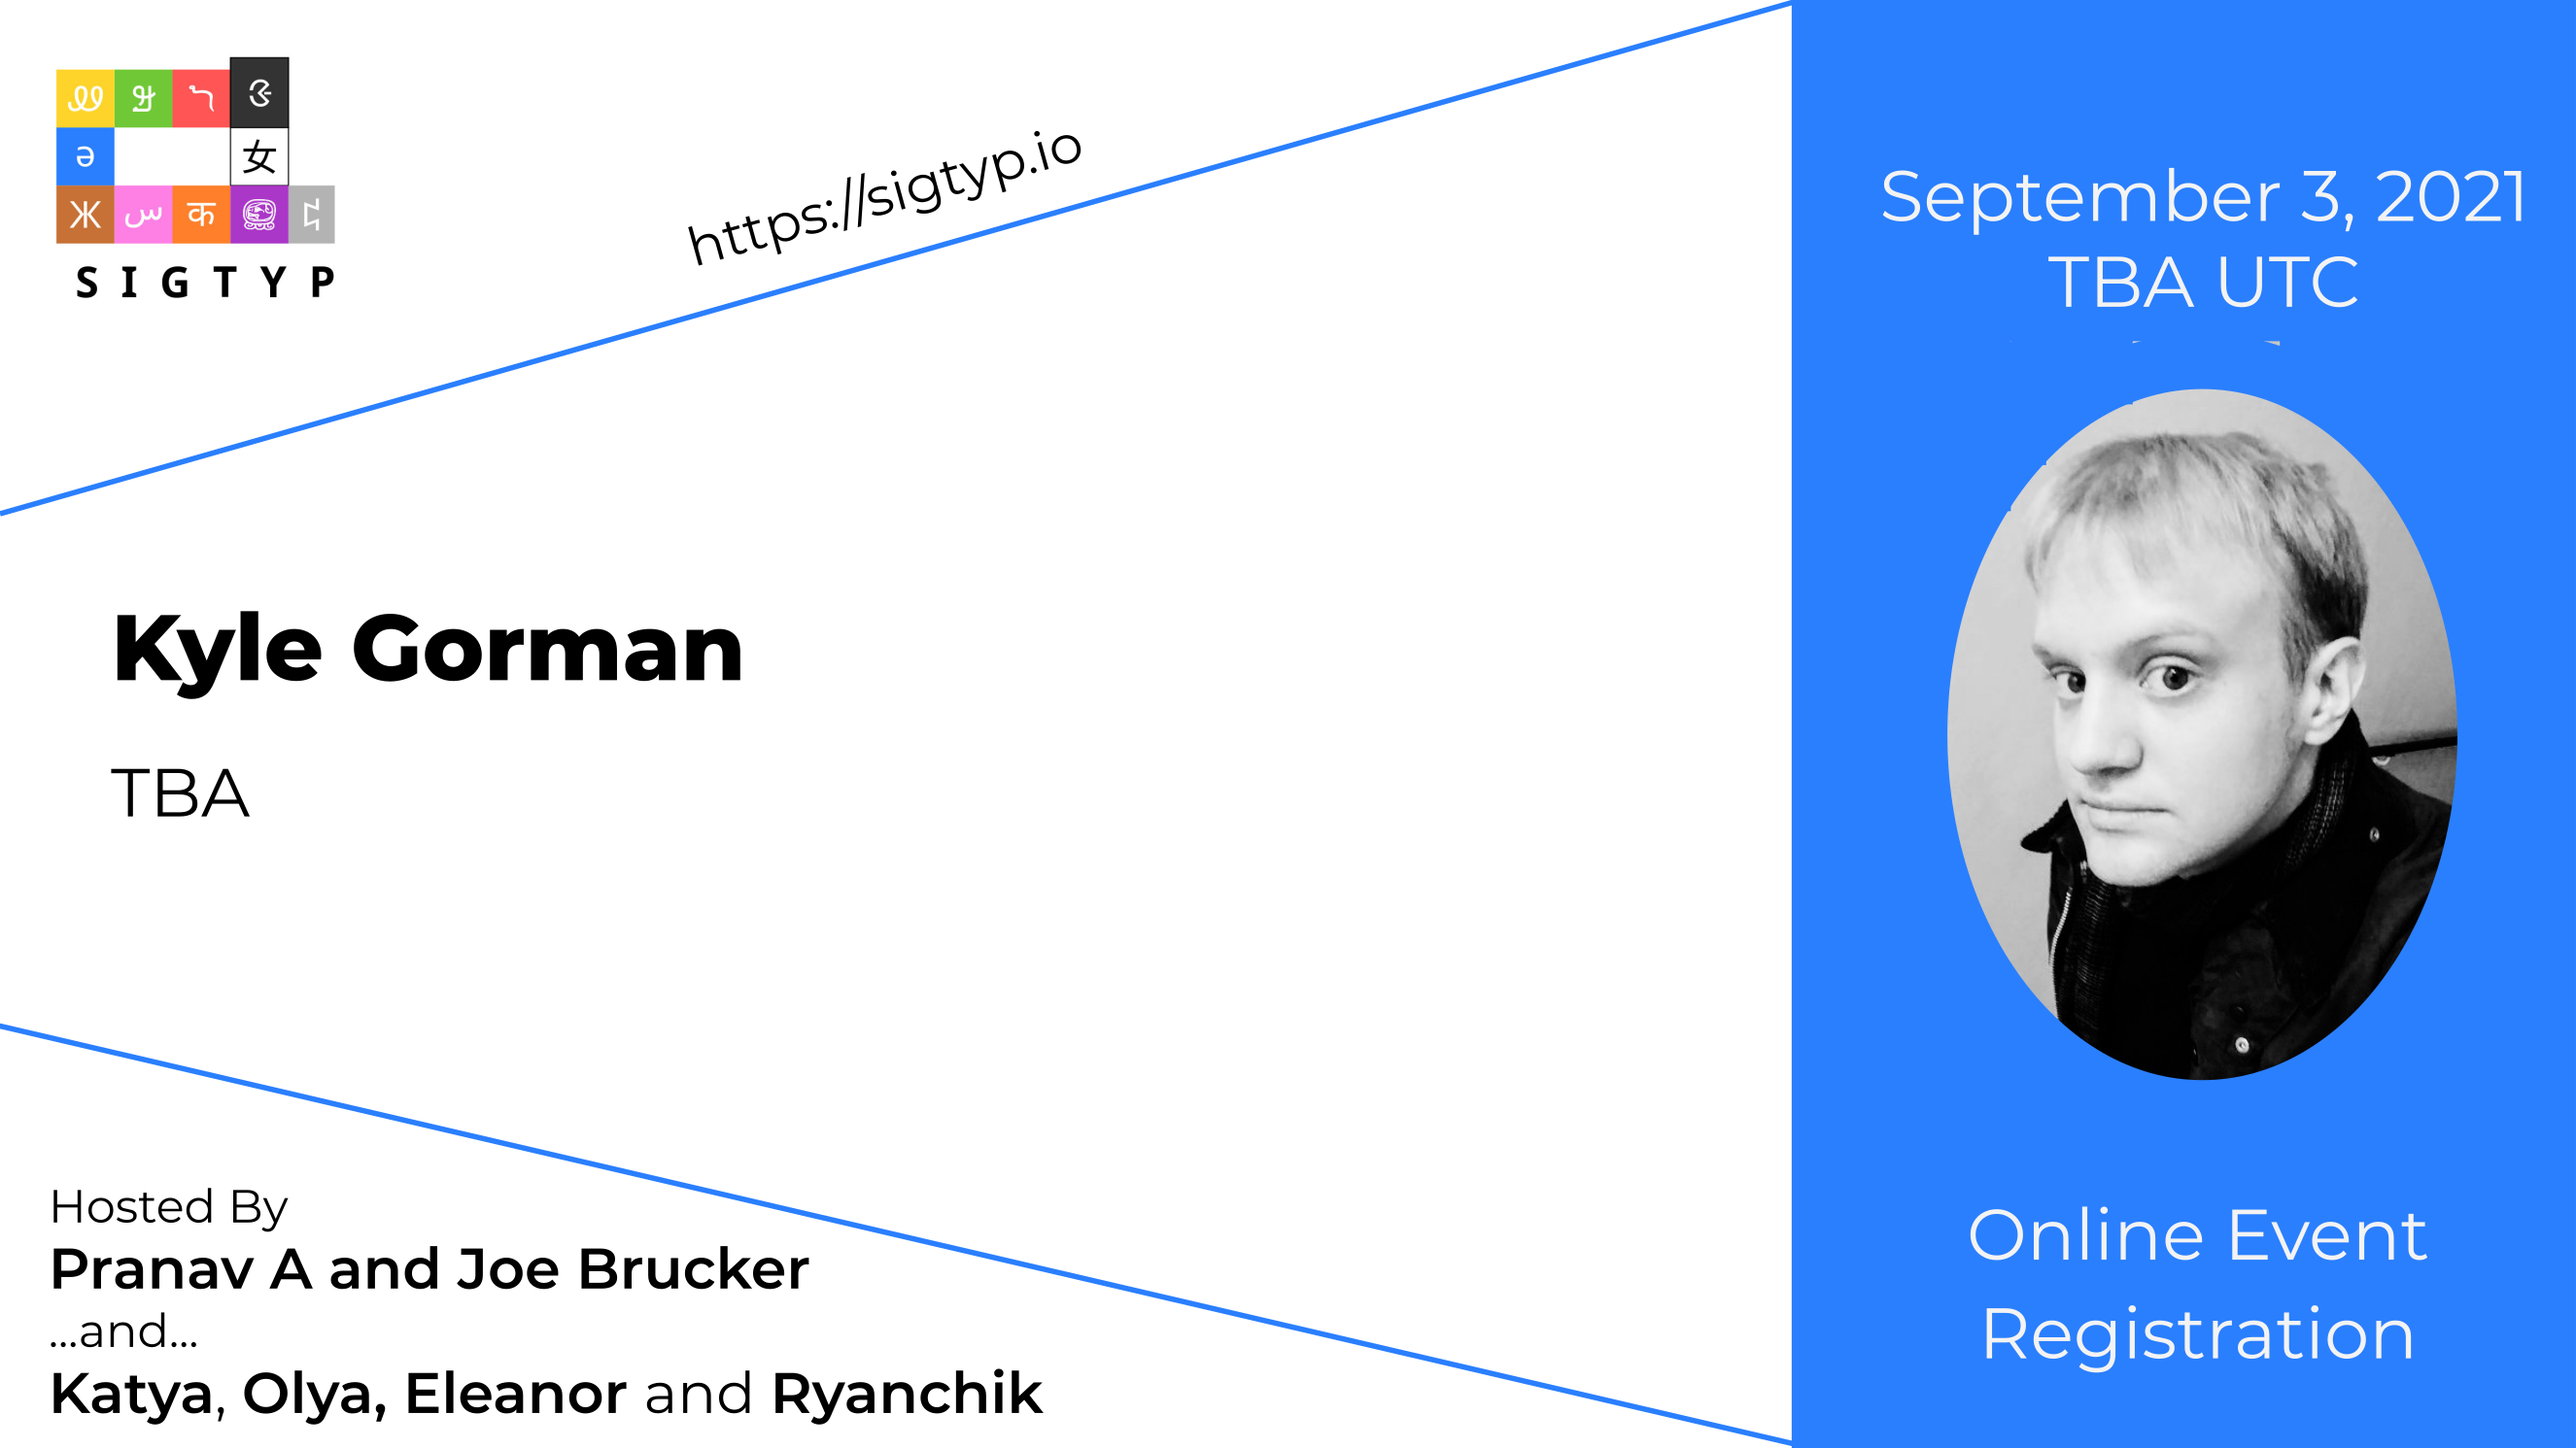
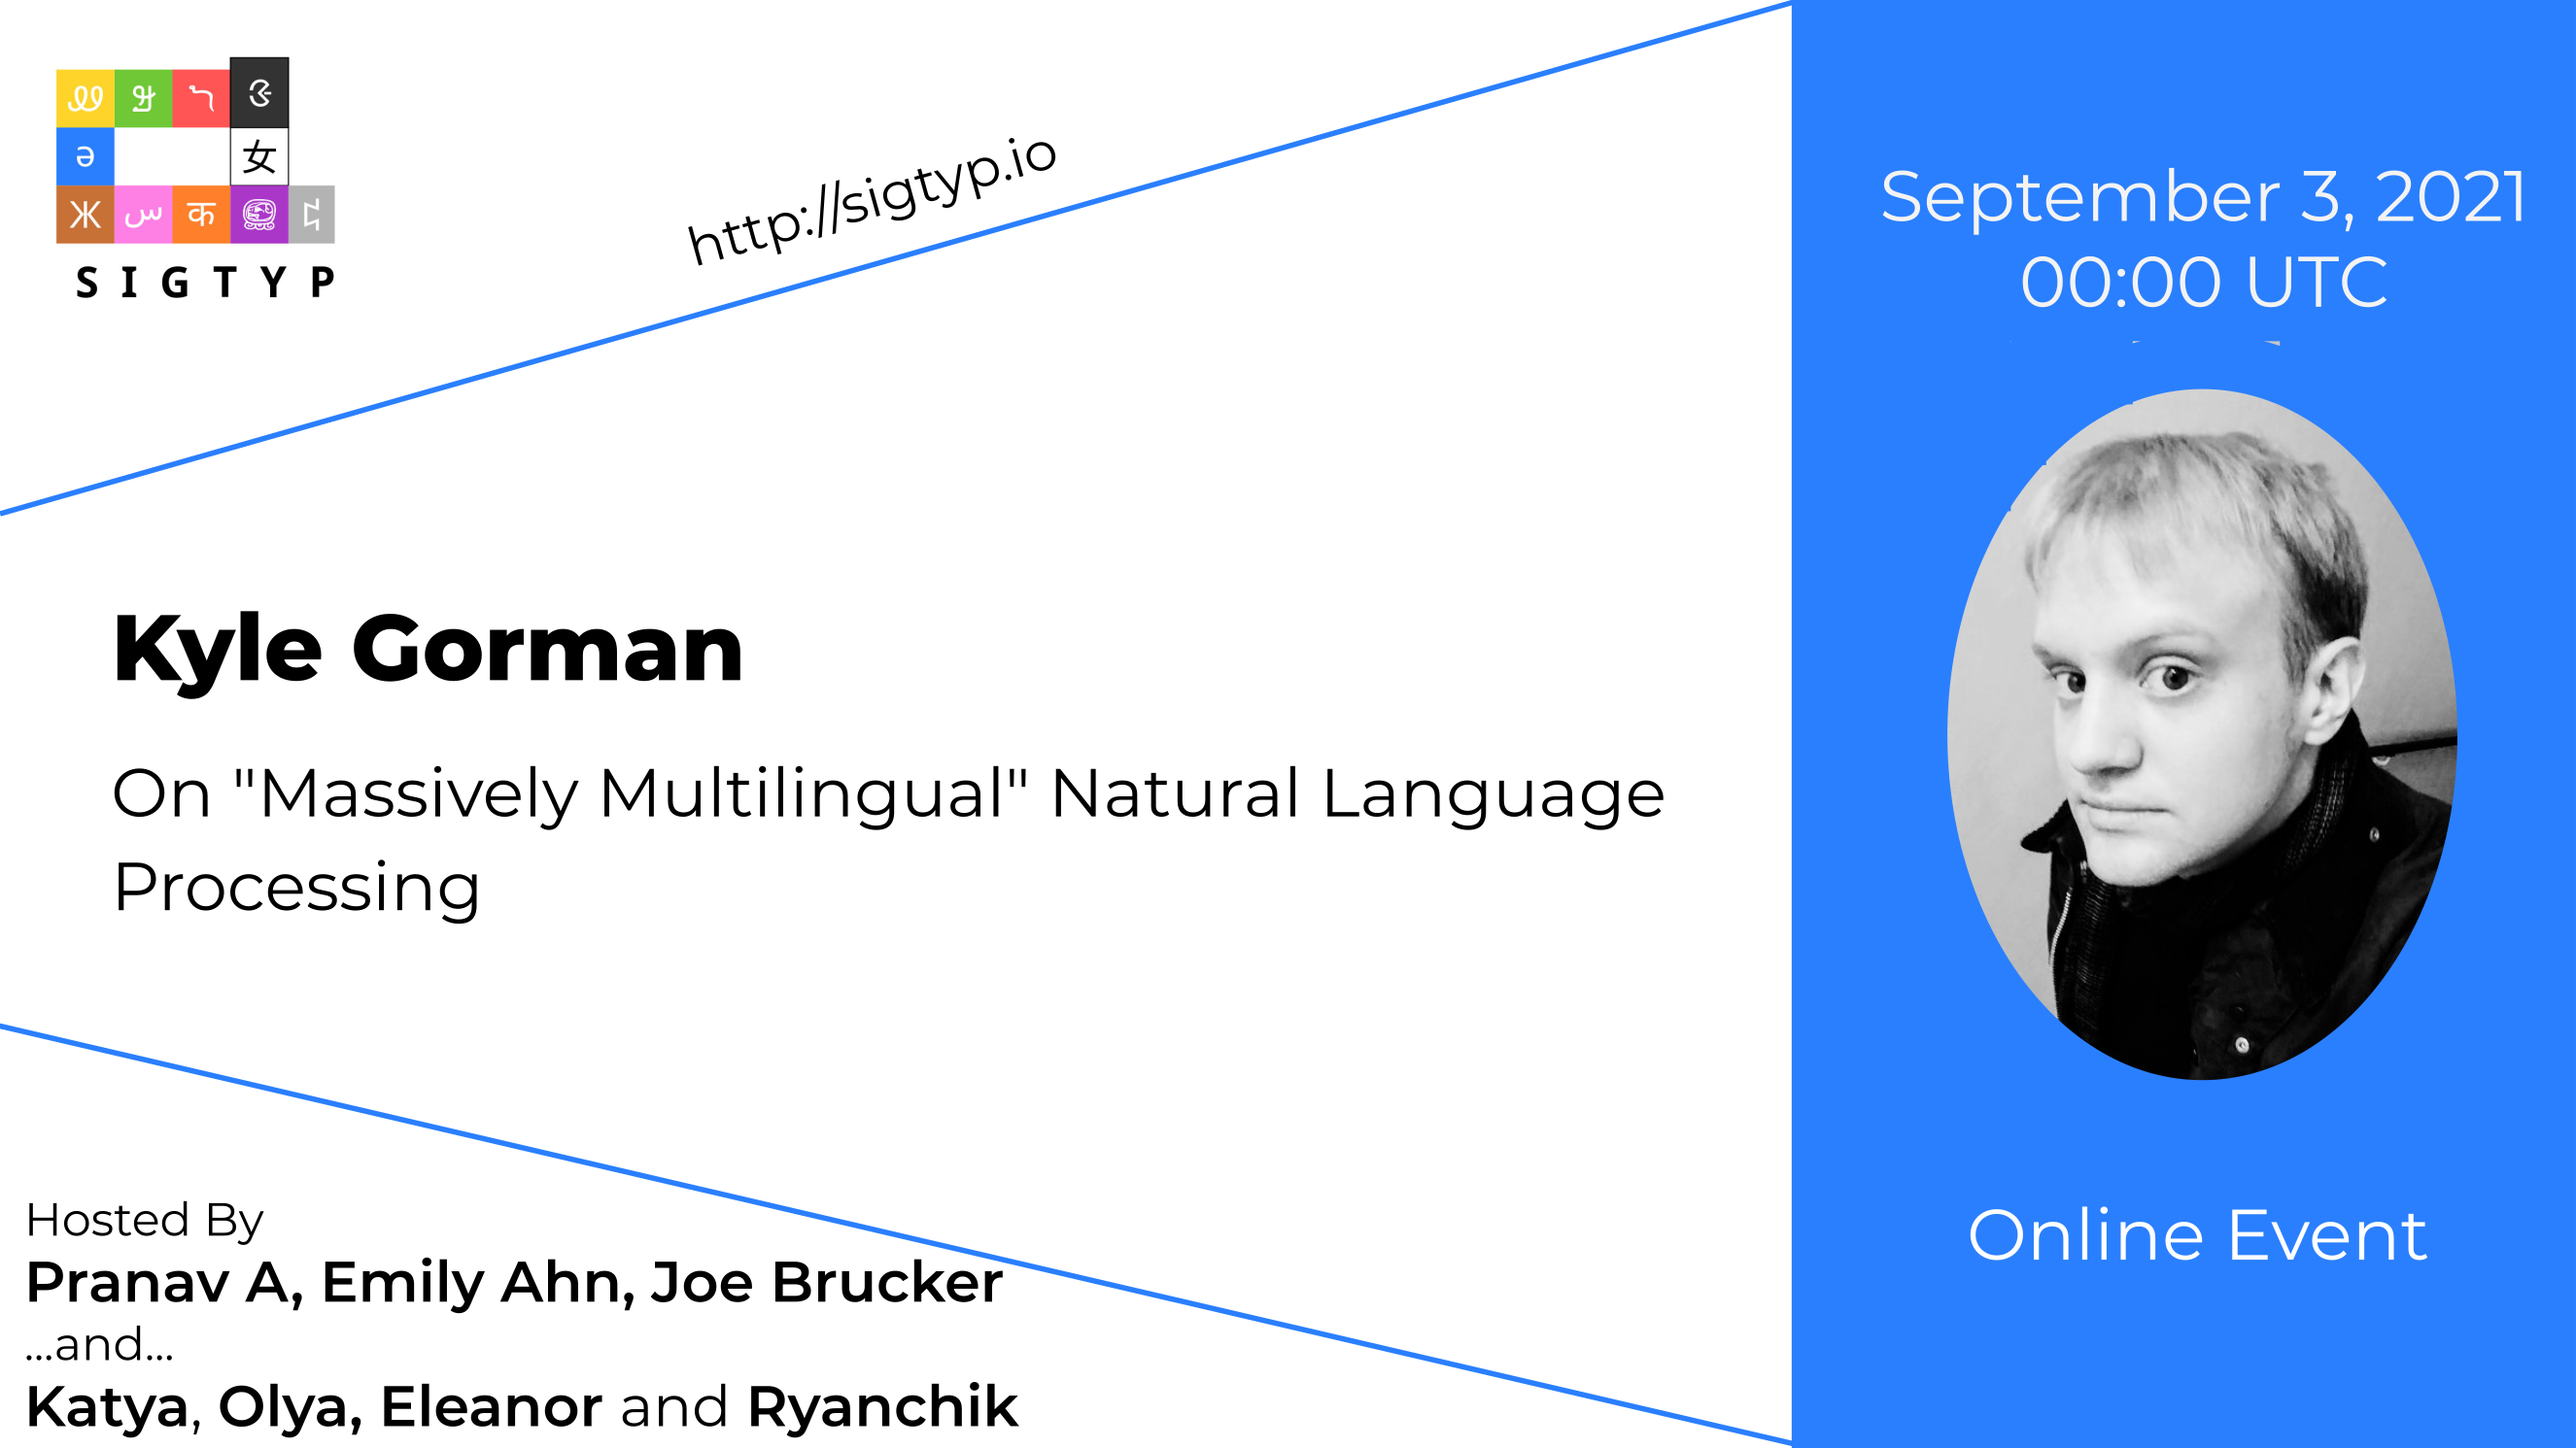
++kyle

diff --git a/lectures.html b/lectures.html
@@ -392,22 +392,22 @@ img {vertical-align: middle;}
     <div class="text1"><a href="https://d-ataman.github.io/">Machine Translation of Morphologically-Rich Languages: a Survey and Open Challenges</a></div>
   </div-->
 
-<div class="mySlides">
+<!--div class="mySlides">
     <div class="numbertext"></div>
     <a href="http://kat.academy" class="image full"><img src="lectures/speakers/ekaterina_vylomova.png" style="width:100%"></a>
     <div class="text1"><a href="http://kat.academy">UniMorph and Morphological Inflection Task: Past, Present, and Future</a></div>
-  </div>
+  </div-->
 
-<div class="mySlides">
+<!--div class="mySlides">
     <div class="numbertext"></div>
     <a href="https://TBA" class="image full"><img src="lectures/speakers/adina_williams.png" style="width:100%"></a>
     <div class="text1"><a href="https://TBA">TBA</a></div>
-  </div>
+  </div-->
 
 <div class="mySlides">
     <div class="numbertext"></div>
     <a href="https://TBA" class="image full"><img src="lectures/speakers/kyle_gorman.png" style="width:100%"></a>
-    <div class="text1"><a href="https://TBA">TBA</a></div>
+    <div class="text1"><a href="http://wellformedness.com/">On "Massively Multilingual" Natural Language Processing</a></div>
   </div>
 
 <div class="mySlides">
@@ -729,15 +729,15 @@ Bio:<br/> Adina is a Research Scientist at Facebook AI Research in NYC. Her main
 <div class="panel panel-default">
       <div class="panel-heading">
         <h4 class="panel-title">
-          <a data-toggle="collapse" data-parent="#accordion" href="#lecture-gorman">[03/09/2021] Kyle Gorman</a>
+          <a data-toggle="collapse" data-parent="#accordion" href="#lecture-gorman">[03/09/2021] Kyle Gorman: On "Massively Multilingual" Natural Language Processing</a>
         </h4>
       </div>
       <div id="lecture-gorman" class="panel-collapse collapse">
         <div class="panel-body" style="align: center; text-align:center">
-<p align="left" style="color:red;font-size:16px"></p>
+<p align="left" style="color:red;font-size:16px">Kyle Gorman: On "Massively Multilingual" Natural Language Processing</p>
 <p align="left">
-TBA
-<p  align="center"><a href="TBA"  class="button small">Slides</a>&nbsp;&nbsp;<a href="TBA"  class="button small">BiliBili</a>&nbsp;&nbsp;<a href="https://sigtyp.inf.ethz.ch/channel/lecture-gorman"  class="button small">RocketChat</a>&nbsp;&nbsp;<a href="https://TBA"  class="button small">Website</a></p>
+Early work in speech & language processing was critiqued for an overwhelming focus on English (and a few other regionally hegemonic languages). In part, this reflected resource limitations of the time. In the first half of this talk, I will discuss various ways in which speech & language processing technologies can be said to be "monolingual" or "multilingual". I will identify several distinct tendencies pushing the field towards greater multilinguality and note some tensions between these various tendencies. In the second half of the talk I will discuss some of the work out of my lab exploiting free, massively multilingual data extracted from Wiktionary, a free online dictionary. These resources include UniMorph, a collection of morphological paradigms, and WikiPron, a collection of pronunciation dictionaries. I will discuss how these data are collected and vetted, and their use in a series of recent shared tasks hosted by special interest groups of the Association for Computational Linguistics.
+<p  align="center"><a href="TBA"  class="button small">Slides</a>&nbsp;&nbsp;<a href="TBA"  class="button small">BiliBili</a>&nbsp;&nbsp;<a href="https://sigtyp.inf.ethz.ch/channel/lecture-gorman"  class="button small">RocketChat</a>&nbsp;&nbsp;<a href="http://wellformedness.com/"  class="button small">Website</a></p>
        </div>
       </div>
     </div>
